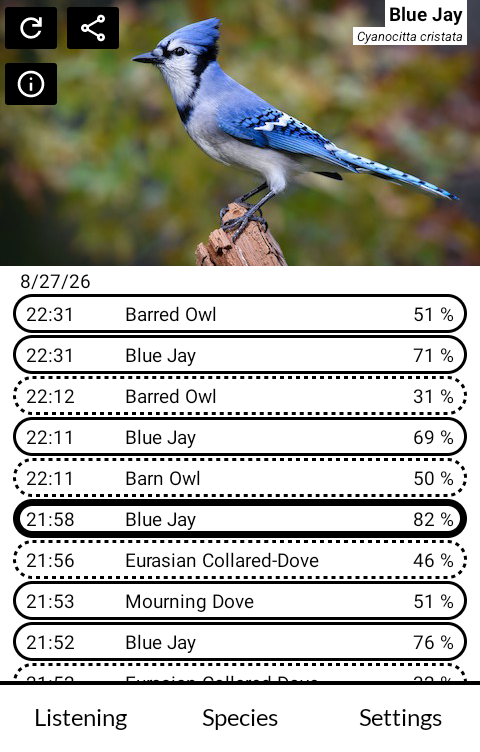
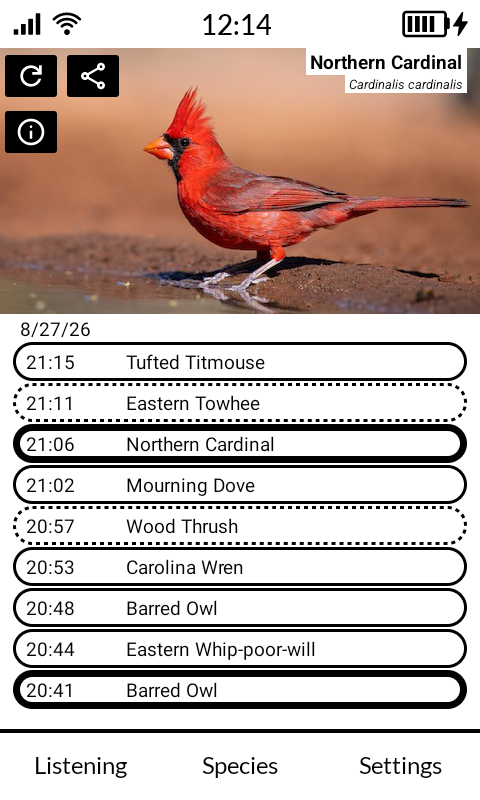
A restored log looked like nothing had happened
Restoring a backup closes the database helper and opens a new one over the file
that was just extracted. ViewActivity took its reference in onCreate and kept
it, so the Heard screen went on answering from the log that had been replaced —
and a restore looked like it had quietly failed until the app was killed and
started again. It had not failed; the screen was reading a dead handle.

Found by disbelieving my own restore three times in a row this afternoon.

Also: 2-heard.png reshot. The old one was showing a percentage beside every
line, which no longer exists. It is a made-up evening rather than a real one —
Barred Owl, whip-poor-will, wood thrush, cardinal, an August night in these
mountains — because the log on the phone it was taken from is six readings long
and two of them are birds that have never been to North Carolina.

diff --git a/app/src/main/java/com/wanderwildwood/tancho/ViewActivity.kt b/app/src/main/java/com/wanderwildwood/tancho/ViewActivity.kt
@@ -85,6 +85,11 @@ class ViewActivity : BaseActivity() {
 
     /** Reads the log in and puts it on screen. Run on the way in, and after a row is removed. */
     private fun reloadObservations() {
+        // Asked for again rather than kept. Restoring a backup closes this helper and opens
+        // a new one over a different file, and a reference taken in onCreate goes on
+        // answering from the log that was replaced -- so a restore looked like it had done
+        // nothing until the app was killed and started again.
+        database = BirdDBHelper.getInstance(this)
         val sharedPref = PreferenceManager.getDefaultSharedPreferences(this)
         val isDetailedFilterActive = sharedPref.getBoolean("view_detailed", false)
         birdObservations = ArrayList(database.getAllBirdObservations(isDetailedFilterActive).sortedByDescending { it.millis } )  //Conversion between Java ArrayList and Kotlin ArrayList
